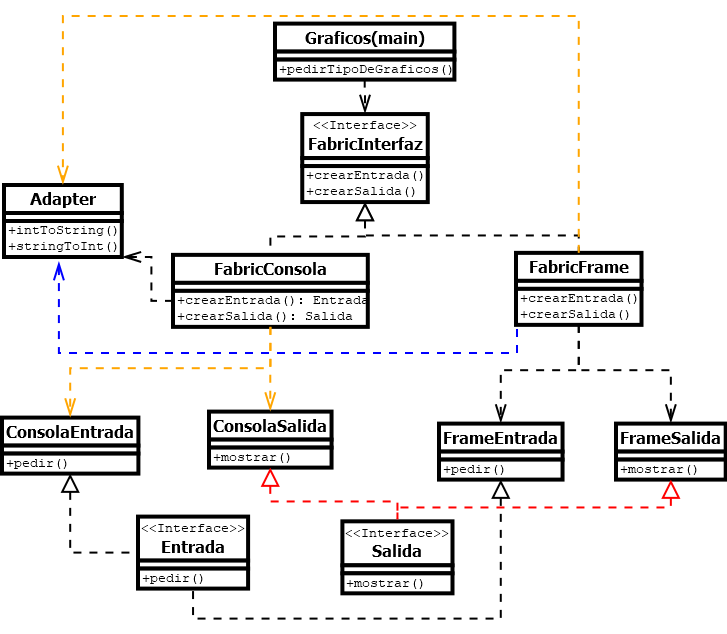
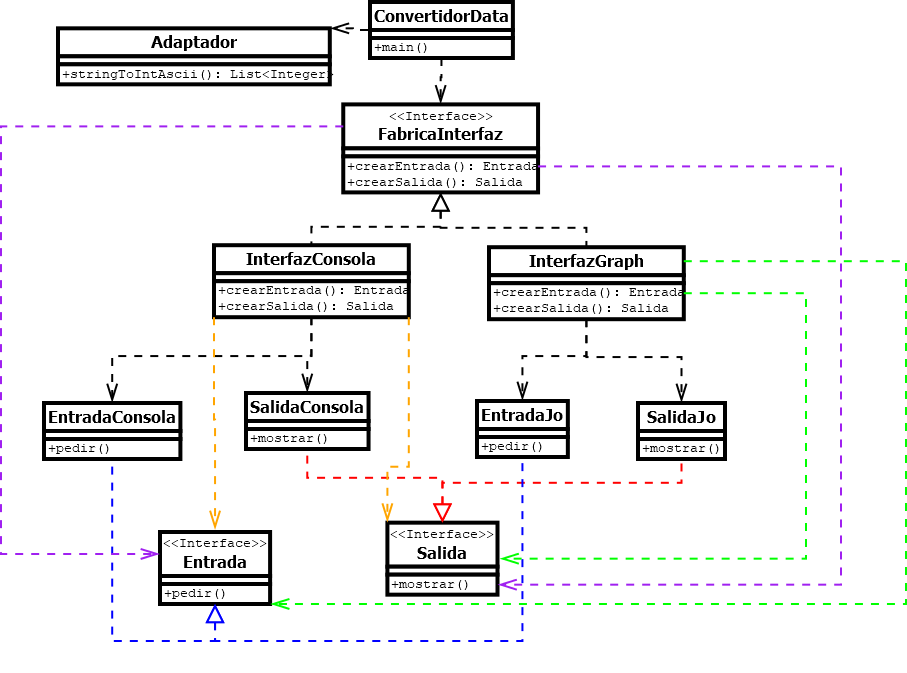
Corrigiendo el UML y poniendo codigo del adapter

diff --git a/code/untitled/src/ConvertidorData.java b/code/untitled/src/ConvertidorData.java
@@ -1,9 +1,12 @@
 import javax.swing.*;
 import Interfaces.*;
+import adapter.Adaptador;
+import java.util.List;
 
 public class ConvertidorData {
     public static void main(String[] args) {
         FabricaInterfaz fabricaInterfaz;
+        Adaptador adapter = new Adaptador();
         String modos[] = {"Consola", "Grafica"};
         int eleccion = JOptionPane.showOptionDialog(
                 null,
@@ -16,7 +19,7 @@ public class ConvertidorData {
                 modos[0]
         );
         if (eleccion == JOptionPane.CLOSED_OPTION) {
-            return; // Salir si se cierra el diálogo
+            return; 
         }else{
             switch (eleccion){
             case 0:
@@ -28,8 +31,10 @@ public class ConvertidorData {
             default:
                 return;
         }
-        String entrada = fabricaInterfaz.crearEntrada().pedir();
-        fabricaInterfaz.crearSalida().mostrar(entrada);
+        
+        String entrada = fabricaInterfaz.crearEntrada().pedir();    
+        List<Integer> num = adapter.stringToIntAscii(entrada);
+        fabricaInterfaz.crearSalida().mostrar(entrada, num);
     }
 }
 

diff --git a/code/untitled/src/adapter/Adaptador.java b/code/untitled/src/adapter/Adaptador.java
@@ -1,0 +1,22 @@
+package adapter;
+
+import java.util.ArrayList;
+import java.util.List;
+
+public class Adaptador {
+    
+    public List<Integer> stringToIntAscii(String texto) {
+        List<Integer> result = new ArrayList<>();
+        
+        try {
+            int numero = Integer.parseInt(texto);
+            result.add(numero);
+        } catch (NumberFormatException e) {
+            for (int i = 0; i < texto.length(); i++) {
+                result.add((int) texto.charAt(i));
+            }
+        }
+        
+        return result;
+    }
+}

diff --git a/code/untitled/src/administradorVisual/SalidaJo.java b/code/untitled/src/administradorVisual/SalidaJo.java
@@ -6,7 +6,7 @@ import javax.swing.*;
 
 public class SalidaJo implements Salida {
     @Override
-    public void mostrar(String dato) {
-        JOptionPane.showMessageDialog(null, "El dato que ingresaste es "+dato);
+    public void mostrar(Object dato, Object dato2) {
+        JOptionPane.showMessageDialog(null, "El dato que ingresaste en String es "+ dato +"\nEl dato que ingresaste en Int Ascii es: "+ dato2);
     }
 }

diff --git a/code/untitled/src/administradorVisual/EntradaJo.java b/code/untitled/src/administradorVisual/EntradaJo.java
@@ -4,8 +4,7 @@ import javax.swing.JOptionPane;
 public class EntradaJo implements Entrada {
     @Override
     public String pedir() {
-        String a = JOptionPane.showInputDialog(null,"Introduce un valor (Entero, texto,decimal, caracter):");
-        //llamar al adapter que convierta los valores
+        String a = JOptionPane.showInputDialog(null,"Introduce un valor (Entero, texto):");
         return a;
     }
 }

diff --git a/code/untitled/src/administradorVisual/SalidaConsola.java b/code/untitled/src/administradorVisual/SalidaConsola.java
@@ -4,7 +4,7 @@ import inout.Salida;
 
 public class SalidaConsola implements Salida {
     @Override
-    public void mostrar(String dato) {
-        System.out.println(dato);
+    public void mostrar(Object dato, Object dato2) {
+        System.out.println("Tu dato en String es: " + dato +"\nTu dato en Int Ascii es: " + dato2);
     }
 }

diff --git a/code/untitled/src/administradorVisual/EntradaConsola.java b/code/untitled/src/administradorVisual/EntradaConsola.java
@@ -10,7 +10,6 @@ public class EntradaConsola implements Entrada {
         String a;
         System.out.println("Entrada por consola");
         a = scanner.nextLine();
-        //proceso del adapter
         return a;
     }
 }

diff --git a/code/untitled/src/inout/Salida.java b/code/untitled/src/inout/Salida.java
@@ -1,5 +1,5 @@
 package inout;
 
 public interface Salida {
-    public void mostrar(String dato);
+    public void mostrar(Object dato, Object dato2);
 }
